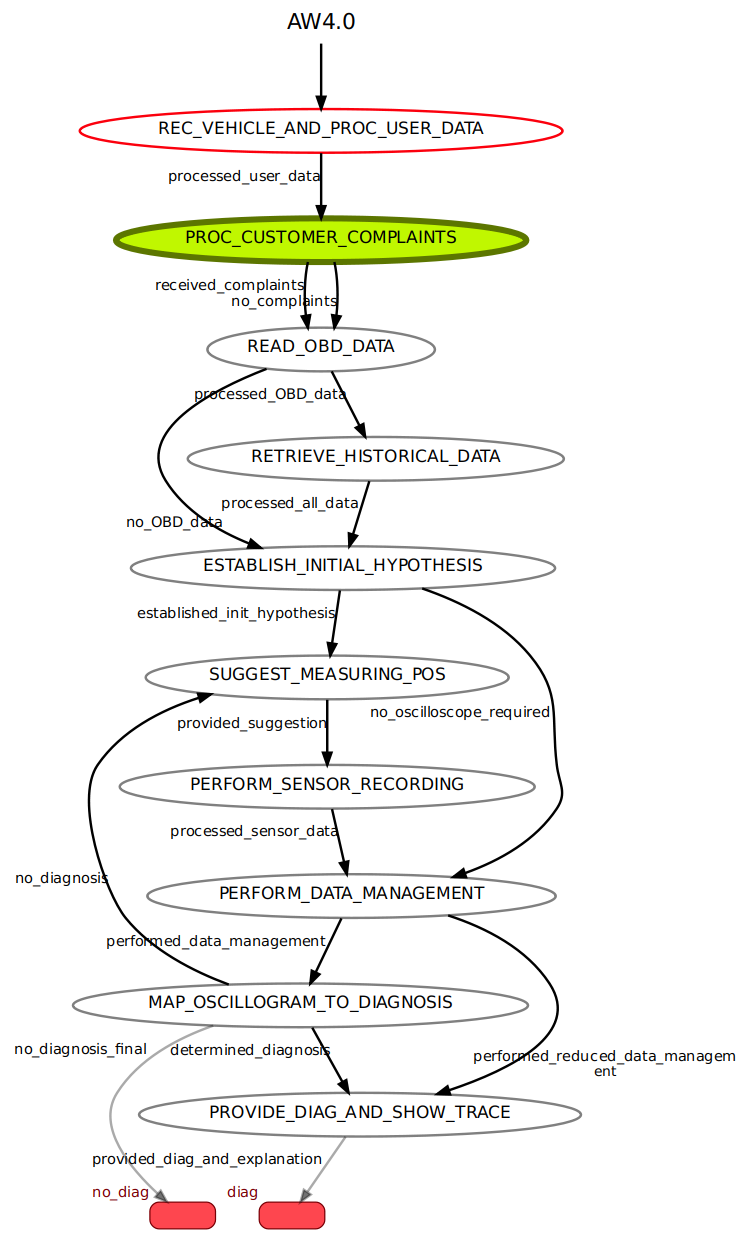
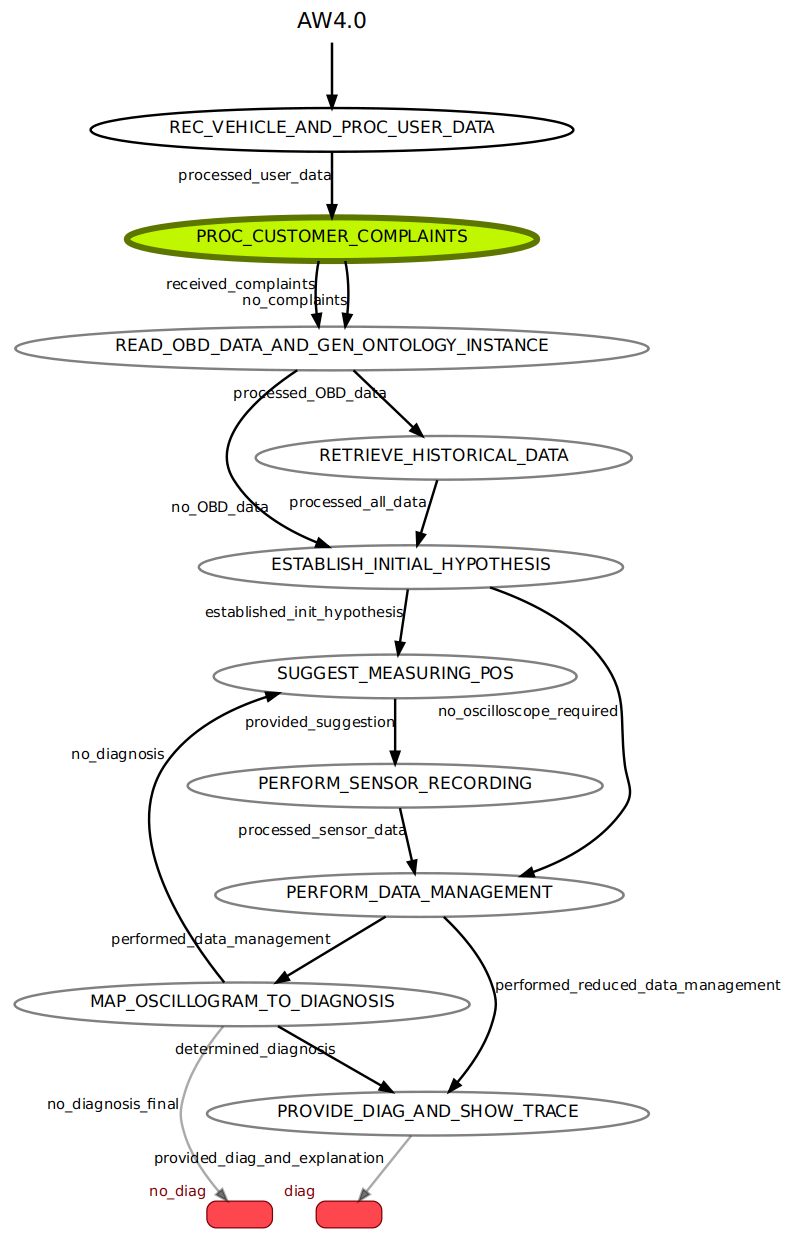
minor changes

diff --git a/high_level_smach.py b/high_level_smach.py
@@ -111,7 +111,7 @@ class EstablishInitialHypothesis(smach.State):
         return "established_init_hypothesis"
 
 
-class ReadOBDData(smach.State):
+class ReadOBDDataAndGenOntologyInstance(smach.State):
 
     def __init__(self):
         smach.State.__init__(self,
@@ -121,7 +121,7 @@ class ReadOBDData(smach.State):
 
     def execute(self, userdata):
         print("############################################")
-        print("executing READ_OBD_DATA state..")
+        print("executing READ_OBD_DATA_AND_GEN_ONTOLOGY_INSTANCE state..")
         print("############################################")
 
         print("OBD INPUT:", userdata.interview_data)
@@ -296,12 +296,12 @@ class VehicleDiagnosisAndRecommendationStateMachine(smach.StateMachine):
                                 'user_data': 'sm_input'})
 
             self.add('PROC_CUSTOMER_COMPLAINTS', ProcCustomerComplaints(),
-                     transitions={'received_complaints': 'READ_OBD_DATA',
-                                  'no_complaints': 'READ_OBD_DATA'},
+                     transitions={'received_complaints': 'READ_OBD_DATA_AND_GEN_ONTOLOGY_INSTANCE',
+                                  'no_complaints': 'READ_OBD_DATA_AND_GEN_ONTOLOGY_INSTANCE'},
                      remapping={'user_data': 'sm_input',
                                 'interview_protocol_file': 'sm_input'})
 
-            self.add('READ_OBD_DATA', ReadOBDData(),
+            self.add('READ_OBD_DATA_AND_GEN_ONTOLOGY_INSTANCE', ReadOBDDataAndGenOntologyInstance(),
                      transitions={'processed_OBD_data': 'RETRIEVE_HISTORICAL_DATA',
                                   'no_OBD_data': 'ESTABLISH_INITIAL_HYPOTHESIS'},
                      remapping={'interview_data': 'sm_input',
